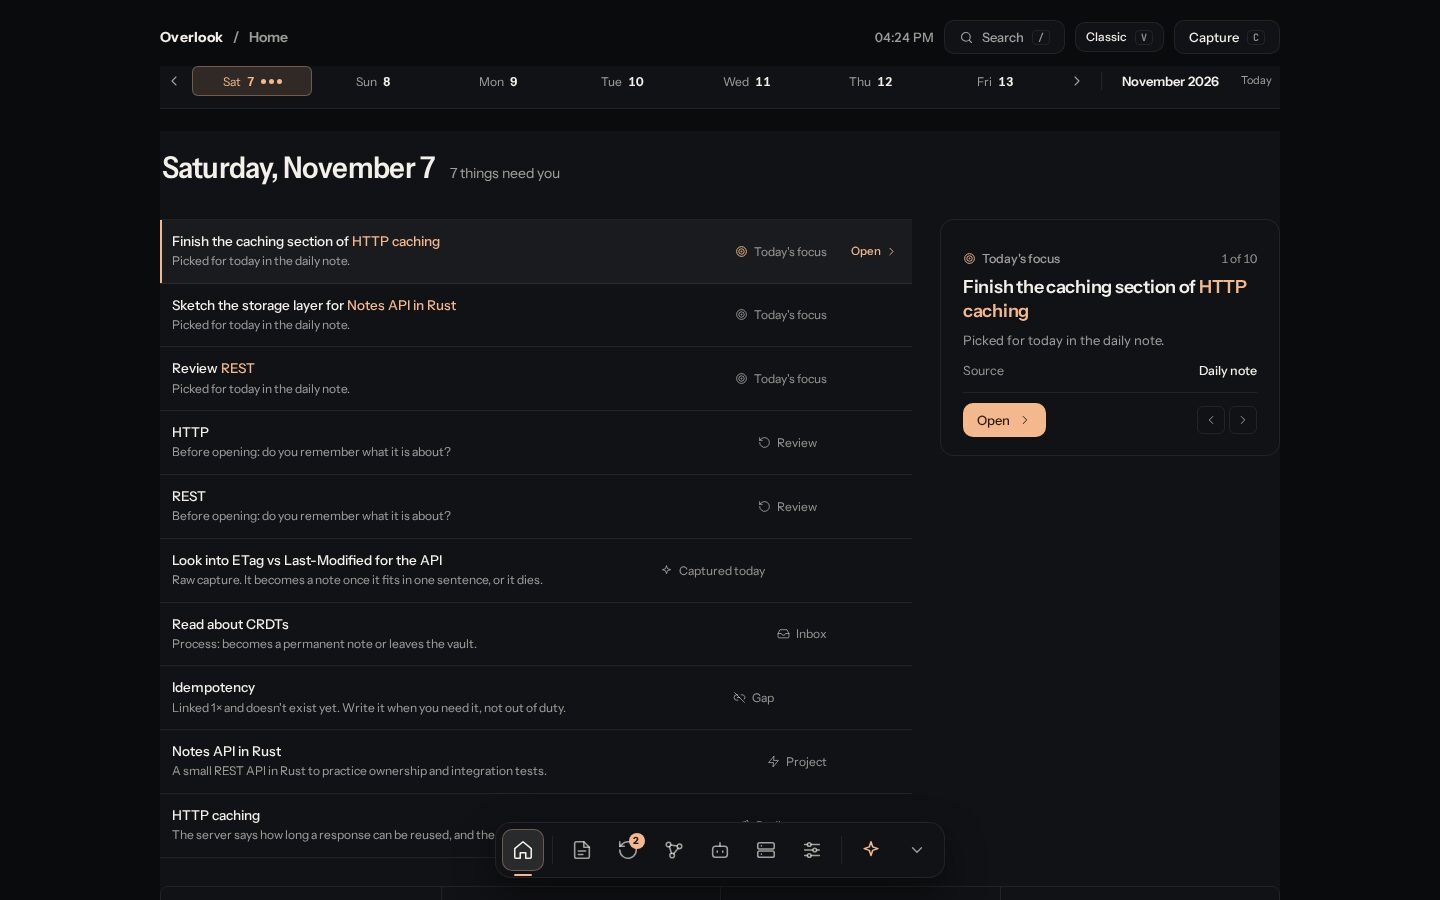
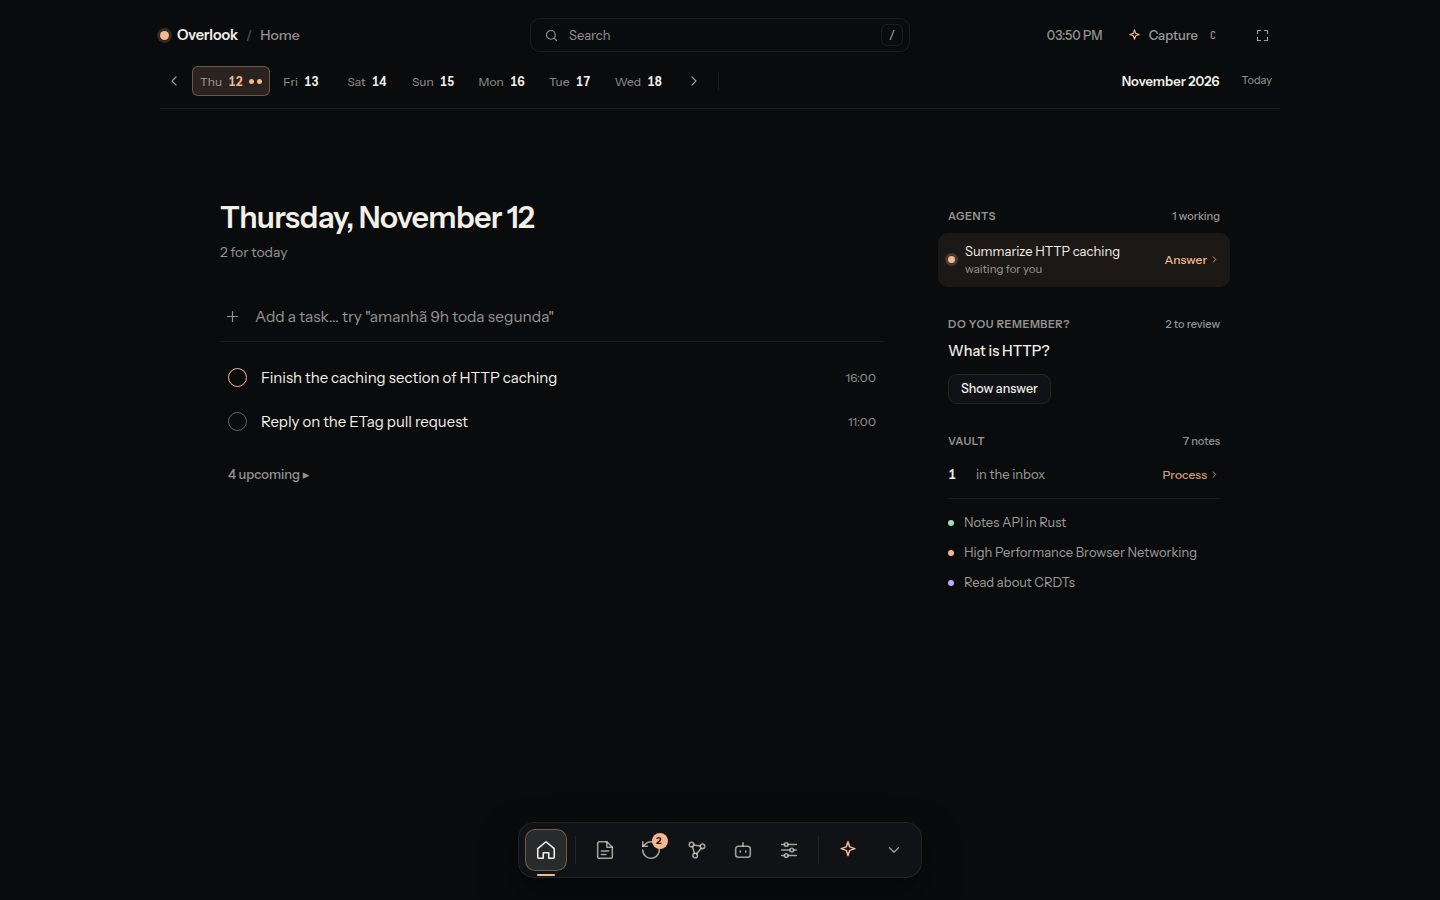
docs: the README and its screenshots match today's Overlook (canvas, Sessions, capture, keys) (#56)
## Problem
The screenshots predate the full-screen canvas: they showed the old
Agents page (Run bar, "Fleet 2"), the Classic Home and an older note
reader. The text missed the canvas's menus, Delete, the minimap,
Sessions, the reload that keeps a terminal's screen, capture to an
agent, and the `F` and `←`/`→` keys.

## Fix
- New `home.jpg`, `note.jpg` and `agents.jpg` (1440×900), same paths, so
the README layout doesn't change.
- **Home**: what sits beside the to-do list (an agent waiting, a card to
review, the inbox).
- **Notes**: capture (`C`) to the daily note or to an agent that writes
the note.
- **Agents**: the full-screen canvas, right-click menus, `Delete`, the
minimap, Sessions (top right, `A`, "N waiting"), terminals that come
back after a reload.
- A **Keys** line: `/`, `C`, `V`, `F`, `←`/`→`.

Describes the app with #51–#55 in: merge it after them.

## How the screenshots were made
A clean checkout (no `.env`, no `cache/`), serving the bundled
`example-vault/` with `VAULT_DIR` set to it, under `env -i`. The server
reads agent sessions from the machine (`~/.claude`, running processes),
so the browser got `/api/system` with those lists emptied and one demo
session in their place ("Summarize HTTP caching", waiting). The to-dos
were typed into the Home; the terminals run a bare `bash --norc` with
the prompt `example-vault $` and a neutral title. No personal data in
the images.

## Verification
Read each image at full size: only `example-vault` content, the demo
[…]

diff --git a/README.md b/README.md
@@ -27,23 +27,28 @@ vault (or set it in **Settings**) and restart. Run it from the repo folder: Bun 
 
 - **Home**: in Minimal, a to-do list. Type a task in one line and its date, time, repeat and importance come out of
   the words ("pay the server on the 15th every month", "revisar PR amanhã 9h toda segunda", "!"); late ones roll into
-  today, a repeating one comes back on its next date when done, and a click opens it to change any of that. One line
-  below says when something needs you (an agent waiting, notes to review, the inbox). Tasks with a time notify you.
+  today, a repeating one comes back on its next date when done, and a click opens it to change any of that. Beside
+  it, what needs you: an agent waiting for an answer, a card to review, the inbox. Tasks with a time notify you.
   Classic keeps the carousel: today's focus, reviews, the inbox, links to notes that don't exist yet.
 - **Calendar** strip: events from `Calendar.md` (`- 2026-11-03 14:00 · Exam`) and agent tasks scheduled to run
   once or on a repeat.
-- **Notes**, a reader with backlinks, a graph, full-text search (`/`) and quick capture (`C`) into the daily note.
+- **Notes**, a reader with backlinks, a graph and full-text search (`/`). Quick capture (`C`) puts a line in the daily
+  note, or gives a topic to an agent that researches it and writes the note.
 - **Graph**: a map of the notes in columns by type (database → table → worker → platform → system → process → team),
   read from `type` in the frontmatter. Click a note to see what it links to (1–3 steps); "What depends on it" lights
   what may break if it changes and can hand that list to an agent. Vaults without those types get the force graph.
 - **Review**: what you ask the vault comes back as a card in 1, 2, 4… days until you know it. Asking on Notes, the
   agent that answers adds the card to `Review.md`; "Save as a note" adds one for the new note. One card at a time
   waits on the Home; the page lists them all. Remove what is useless or out of date; known ones leave on their own.
-- **Agents**: give a task to any CLI or API agent and watch it run. On the canvas, every card is a window: real
-  terminals, agent TUIs (Claude Code, Antigravity), stickies and notes. Wire two terminal cards and the programs
-  in them can talk with `overlook peers`, `overlook send <card> "…"` and `overlook read <card>`. Ctrl+Alt+/
-  lists the shortcuts.
-- Themes (Tokyo Night, Dracula, Catppuccin, Rosé Pine, Gruvbox, Nord) and two interfaces, Classic and Minimal (`V`).
+- **Agents**: give a task to any CLI or API agent and watch it run. The canvas takes the whole screen, and every
+  card is a window: real terminals, agent TUIs (Claude Code, Antigravity), stickies and notes. Right-click opens a
+  card's or the canvas's menu, `Delete` closes the selected cards, and a minimap shows where you are. **Sessions**
+  (top right, or `A`) lists every agent session; its pill says how many are waiting for you. A terminal gets its
+  screen back when you reload the page. Wire two terminal cards and the programs in them can talk with
+  `overlook peers`, `overlook send <card> "…"` and `overlook read <card>`. Ctrl+Alt+/ lists the canvas's shortcuts.
+- **Keys**: `/` search, `C` capture, `V` Classic or Minimal, `F` full screen (no browser tabs), `←`/`→` the previous
+  or next page.
+- Themes (Tokyo Night, Dracula, Catppuccin, Rosé Pine, Gruvbox, Nord) and two interfaces, Classic and Minimal.
 
 ## Your vault
 
